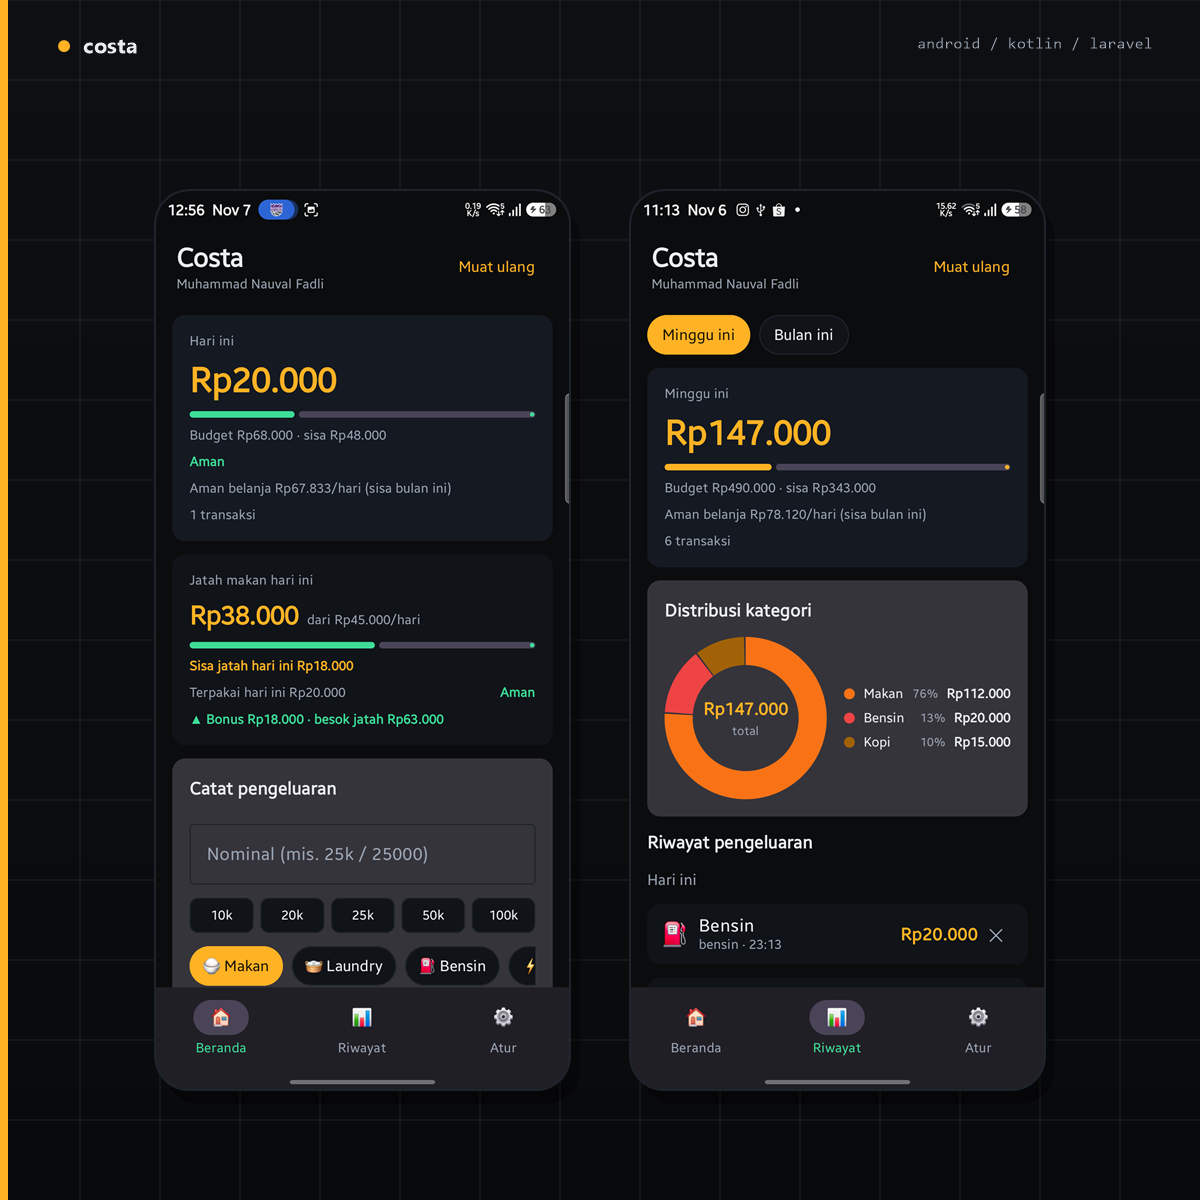
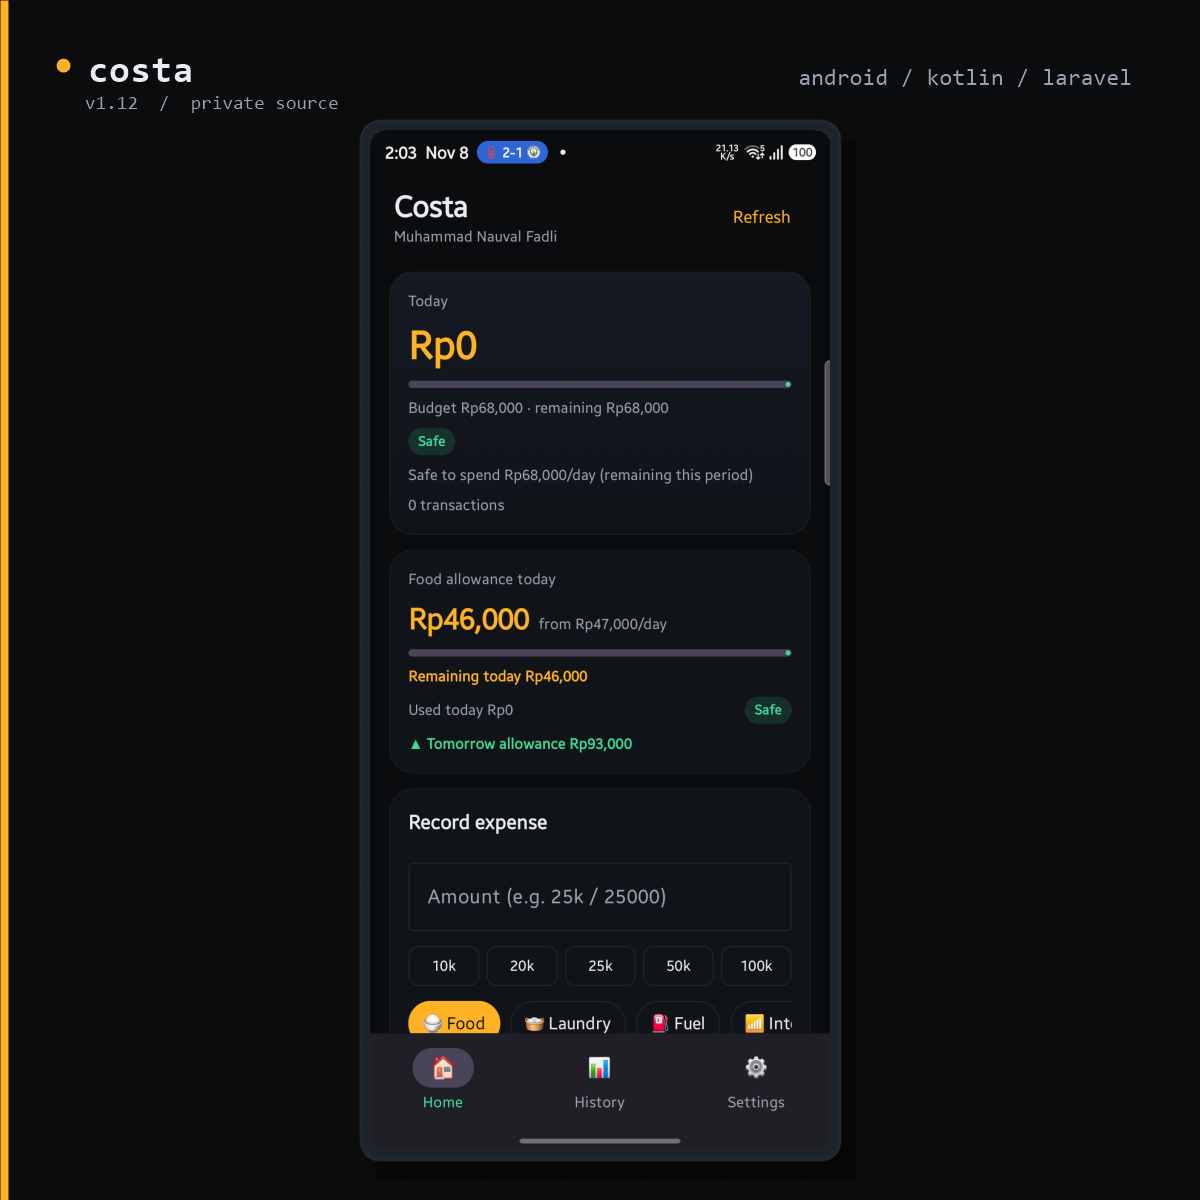
content: refresh Costa case study for v1.12
Update the Costa project copy, stack, screenshot, and roadmap items for the v1.12 release. Remove the now-private repository link and point visitors to the public APK download instead.

diff --git a/data/projects.ts b/data/projects.ts
@@ -24,20 +24,20 @@ export const projects: Project[] = [
     slug: "costa",
     title: "Costa — Personal Expense Tracker",
     category: "mobile",
-    role: "Solo developer — Android app, Laravel API & deployment",
+    role: "Solo developer — Android app, Laravel API, release & deployment",
     description:
-      "Personal expense tracker that combines a native Android app with a self-hosted Laravel API: quick logging, daily/weekly/monthly budgets, a rolling food allowance, category insights, and automatic reports.",
+      "Private-source personal expense tracker pairing a native Android app with a self-hosted Laravel API. Built for daily use: budget periods, a rolling food allowance, bilingual UI, month history, exports, alerts, and a fingerprint-first app lock.",
     outcomes: [
-      "Built a native Android app (Kotlin + Jetpack Compose) backed by a Laravel API with per-user Sanctum tokens",
-      "Designed a rolling daily food allowance (debt/bonus carries over), budget health indicators, category donut chart, CSV/PDF export, scheduled notifications, and in-app APK updates",
-      "Deployed on a home server with Docker + Cloudflare Tunnel, SQLite persistence, and daily automated backups",
+      "Designed a budget-period model where daily and weekly targets are derived from the monthly plan, with a rolling food allowance that carries debt or bonus forward",
+      "Shipped bilingual (ID/EN) Android flows with month history, per-month CSV/PDF export, scheduled reminders, and real-time 80%/100% budget alerts",
+      "Polished the native experience: animated tab transitions, draggable edit sheets, skeleton loading, haptic pull-to-refresh, and a fingerprint-first app lock with PIN fallback",
+      "Owned the full stack: Laravel API on SQLite, Docker + Cloudflare Tunnel, daily backups, and an in-app release updater signed for seamless upgrades",
     ],
     techStack: ["Kotlin", "Jetpack Compose", "Laravel 13", "SQLite", "Docker", "Cloudflare"],
-    githubUrl: "https://github.com/NauvalXQF/costa",
     demoUrl: "https://costa.opankcs.com/download/costa.apk",
     demoLabel: "Download APK",
     image: "/costa.png",
-    imageAlt: "Costa app — home screen with budget and food allowance, and category donut chart",
+    imageAlt: "Costa Android app — daily budget, rolling food allowance, and quick expense entry",
     featured: true,
     live: true,
   },

diff --git a/dictionaries/en.ts b/dictionaries/en.ts
@@ -61,11 +61,11 @@ export const en: Dictionary = {
         },        {
           name: "costa",
           domain: "costa.opankcs.com",
-          href: "https://costa.opankcs.com",
+          href: "https://costa.opankcs.com/download/costa.apk",
         },
       ],
       stack: "laravel · next.js · kotlin · docker",
-      snapshot: "snapshot · oct 2026",
+      snapshot: "snapshot · nov 2026",
     },
   },
   about: {
@@ -76,7 +76,7 @@ export const en: Dictionary = {
     paragraphs: [
       "I'm Muhammad Nauval Fadli, an Informatics undergraduate at Universitas Diponegoro, class of 2024. My main interest is data science: asking questions, cleaning messy datasets, and presenting findings in a way people understand.",
       "I started from programming fundamentals (C, C++, Java) and databases (SQL), then moved into Python for analysis and web basics with Laravel and Next.js. That mix helps me understand the full flow — from where data comes from to how it is shown.",
-      "Right now I'm building foundations: statistics, data wrangling, visualization, and clear storytelling — while running my own home server to deploy real apps (REKSA, JARA, KMS Kopi, Costa) with Docker and Cloudflare Tunnel.",
+      "Right now I'm shipping Costa v1.12, a private-source Android expense tracker with a self-hosted Laravel API, while running my own home server to deploy real apps (REKSA, JARA, KMS Kopi, Costa) with Docker and Cloudflare Tunnel.",
     ],
     spec: [
       { key: "focus", value: "Data science" },
@@ -146,7 +146,7 @@ export const en: Dictionary = {
     upcomingTitle: "Up next",
     upcomingDesc:
       "Data-oriented builds in progress — documented as I learn.",
-    upcomingItems: ["Income tracker for Costa", "Data analysis notes"],
+    upcomingItems: ["Costa backup & restore", "Costa monthly insights", "Data analysis notes"],
     emptyTitle: "No projects in this category yet.",
   },
   education: {

diff --git a/data/skills.ts b/data/skills.ts
@@ -25,6 +25,7 @@ export const skills: Skill[] = [
   { name: "Flask", group: "web", level: "familiar" },
   { name: "Kotlin", group: "web", level: "familiar" },
   { name: "Jetpack Compose", group: "web", level: "familiar" },
+  { name: "Android security", group: "tools", level: "familiar" },
   // Tools & Workflow
   { name: "Git", group: "tools", level: "intermediate" },
   { name: "Docker", group: "tools", level: "familiar" },

diff --git a/README.md b/README.md
@@ -18,7 +18,7 @@ Personal portfolio for **Muhammad Nauval Fadli**, an Informatics student at Univ
 
 ## Related
 
-- [Costa](https://github.com/NauvalXQF/costa) — native Android expense tracker with a Laravel API, built and self-hosted alongside this site.
+- **Costa** — private-source native Android expense tracker with a self-hosted Laravel API. The release APK is public: [download Costa](https://costa.opankcs.com/download/costa.apk).
 
 ## Project structure
 
